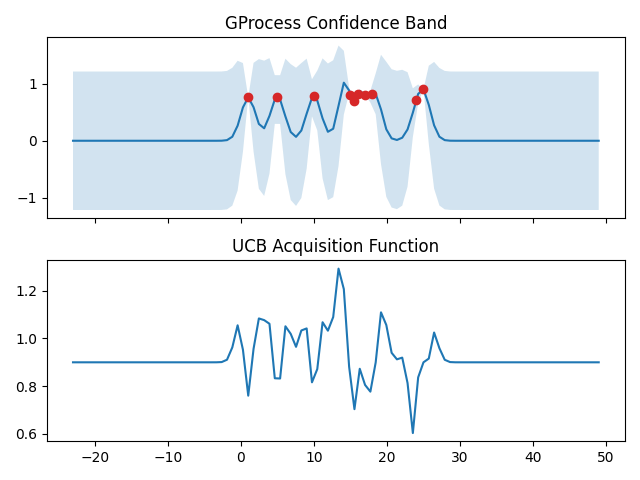
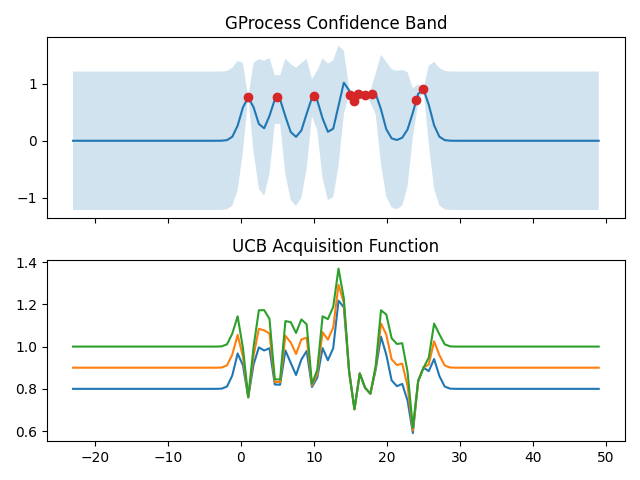
update the gradient computation func

diff --git a/optimization.py b/optimization.py
@@ -33,7 +33,12 @@ class UpperConfidenceBound(ZeroGProcess):
 
         return aux_ucb_current[0, 0]
 
-    def find_next_point(self):
+    def auto_grad(self, current_point):
+        "compute gradient at current_point"
+
+        pass 
+
+    def find_NextBest_point(self):
         "find maximum point based on auxillary function"
         pass
 
@@ -51,7 +56,7 @@ class UpperConfidenceBound(ZeroGProcess):
         y_lower = [ele[0] for ele in y_conf_int]
         y_upper = [ele[1] for ele in y_conf_int]
 
-        # subplot 2: 
+        # subplot 2: UCB AC function with multiple parameters
         ac_values_lst = []
         if isinstance(gammas, list):
             for gamma in gammas:
@@ -60,6 +65,7 @@ class UpperConfidenceBound(ZeroGProcess):
         elif isinstance(gammas, float):
             ac_gamma = [self.aux_func([ele], gammas) for ele in x_draw]
             ac_values_lst.append(ac_gamma)
+            gammas = [gammas]
 
         fig, (ax_gp, ax_ac) = plt.subplots(2, 1, sharex=True)
 
@@ -69,10 +75,12 @@ class UpperConfidenceBound(ZeroGProcess):
         ax_gp.plot(self.X, self.Y, 'o', color="tab:red")
 
         ax_ac.set_title("UCB Acquisition Function")
-        ax_ac.plot(x_draw, ac_values_lst[0])
+        for ac_value, gamma in zip(ac_values_lst, gammas):
+            ax_ac.plot(x_draw, ac_value, label="gamma: "+str(gamma))
 
+        ax_ac.legend()
         fig.tight_layout()
-        fig.savefig("./example_ac.png")
+        fig.savefig("./example_ac_ucb.png")
 
         return 0
 
@@ -115,12 +123,51 @@ class ExpectedImprovement(ZeroGProcess):
 
         return aux_ei_current
 
-    def find_next_point(self):
+    def find_NextBest_point(self):
         "find maximum point based on auxillary function"
         pass
 
-    def plot(self):
-        pass 
+    def plot(self, num_points=100, exp_ratio=1, confidence=0.9, kessis=[0.9]):
+        "plot the acquisition function as well as ZeroGP in a figure with two figs"
+        min_point = min(self.X)[0]
+        max_point = max(self.X)[0]
+        delta = max_point - min_point
+
+        x_draw = np.linspace(min_point-exp_ratio*delta, max_point+exp_ratio*delta, num_points)
+
+        # subplot 1: GProcess mean & confidence band
+        y_mean = [self.compute_mean([ele]) for ele in x_draw]
+        y_conf_int = [self.conf_interval([ele], confidence) for ele in x_draw]
+        y_lower = [ele[0] for ele in y_conf_int]
+        y_upper = [ele[1] for ele in y_conf_int]
+
+        # subplot 2: EI AC function with multiple parameters 
+        ac_values_lst = []
+        if isinstance(kessis, list):
+            for kessi in kessis:
+                ac_kessi = [self.aux_func([ele], kessi) for ele in x_draw]
+                ac_values_lst.append(ac_kessi)
+        elif isinstance(kessis, float):
+            ac_kessi = [self.aux_func([ele], kessis) for ele in x_draw]
+            ac_values_lst.append(ac_kessi)
+            kessis = [kessis]
+
+        fig, (ax_gp, ax_ac) = plt.subplots(2, 1, sharex=True)
+
+        ax_gp.set_title("GProcess Confidence Band")
+        ax_gp.plot(x_draw, y_mean)
+        ax_gp.fill_between(x_draw, y_lower, y_upper, alpha=0.2)
+        ax_gp.plot(self.X, self.Y, 'o', color="tab:red")
+
+        ax_ac.set_title("EI Acquisition Function")
+        for ac_value, kessi in zip(ac_values_lst, kessis):
+            ax_ac.plot(x_draw, ac_value, label="kessi: "+str(kessi))
+
+        ax_ac.legend()
+        fig.tight_layout()
+        fig.savefig("./example_ac_ei.png")
+
+        return 0
 
 
 class ShapeTransferBO(ZeroGProcess):
@@ -154,7 +201,7 @@ if __name__ == "__main__":
     x2 = [10.4]
     print("UCB({:.2f}) = {:.2f}".format(x2[0], UCB.aux_func(x2, gamma)))
 
-    UCB.plot()
+    UCB.plot(gammas=[0.8, 0.9, 1])
 
     # Test EI
     EI = ExpectedImprovement()
@@ -167,3 +214,5 @@ if __name__ == "__main__":
     print("EI({:.2f}) = {:.2f}".format(x1[0], EI.aux_func(x1, kessi)))
     x2 = [10.4]
     print("EI({:.2f}) = {:.2f}".format(x2[0], EI.aux_func(x2, kessi)))
+
+    EI.plot(kessis=[0.0, 0.1, 0.2])

diff --git a/gp.py b/gp.py
@@ -187,4 +187,3 @@ if __name__ == "__main__":
 
     # test plot function
     
-
